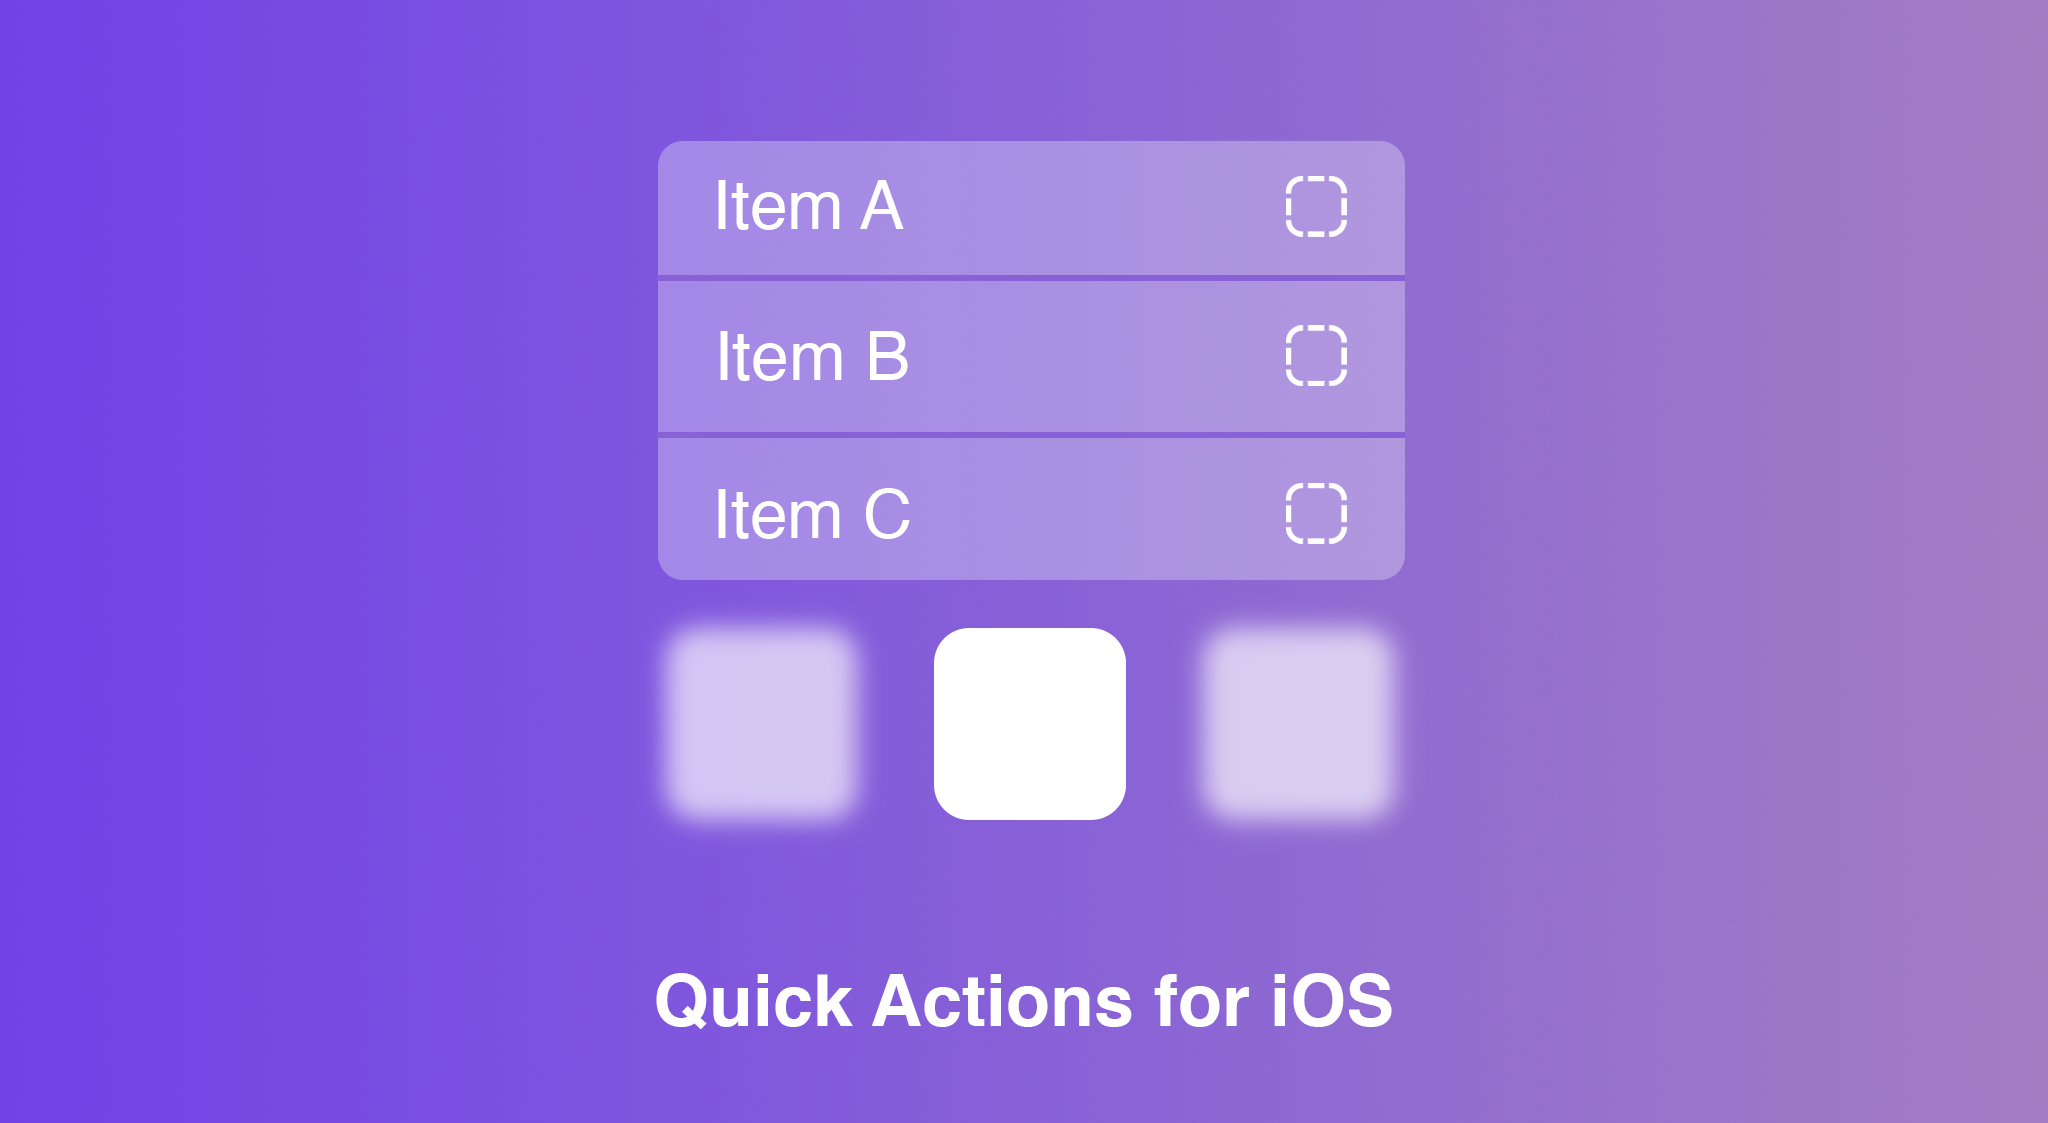
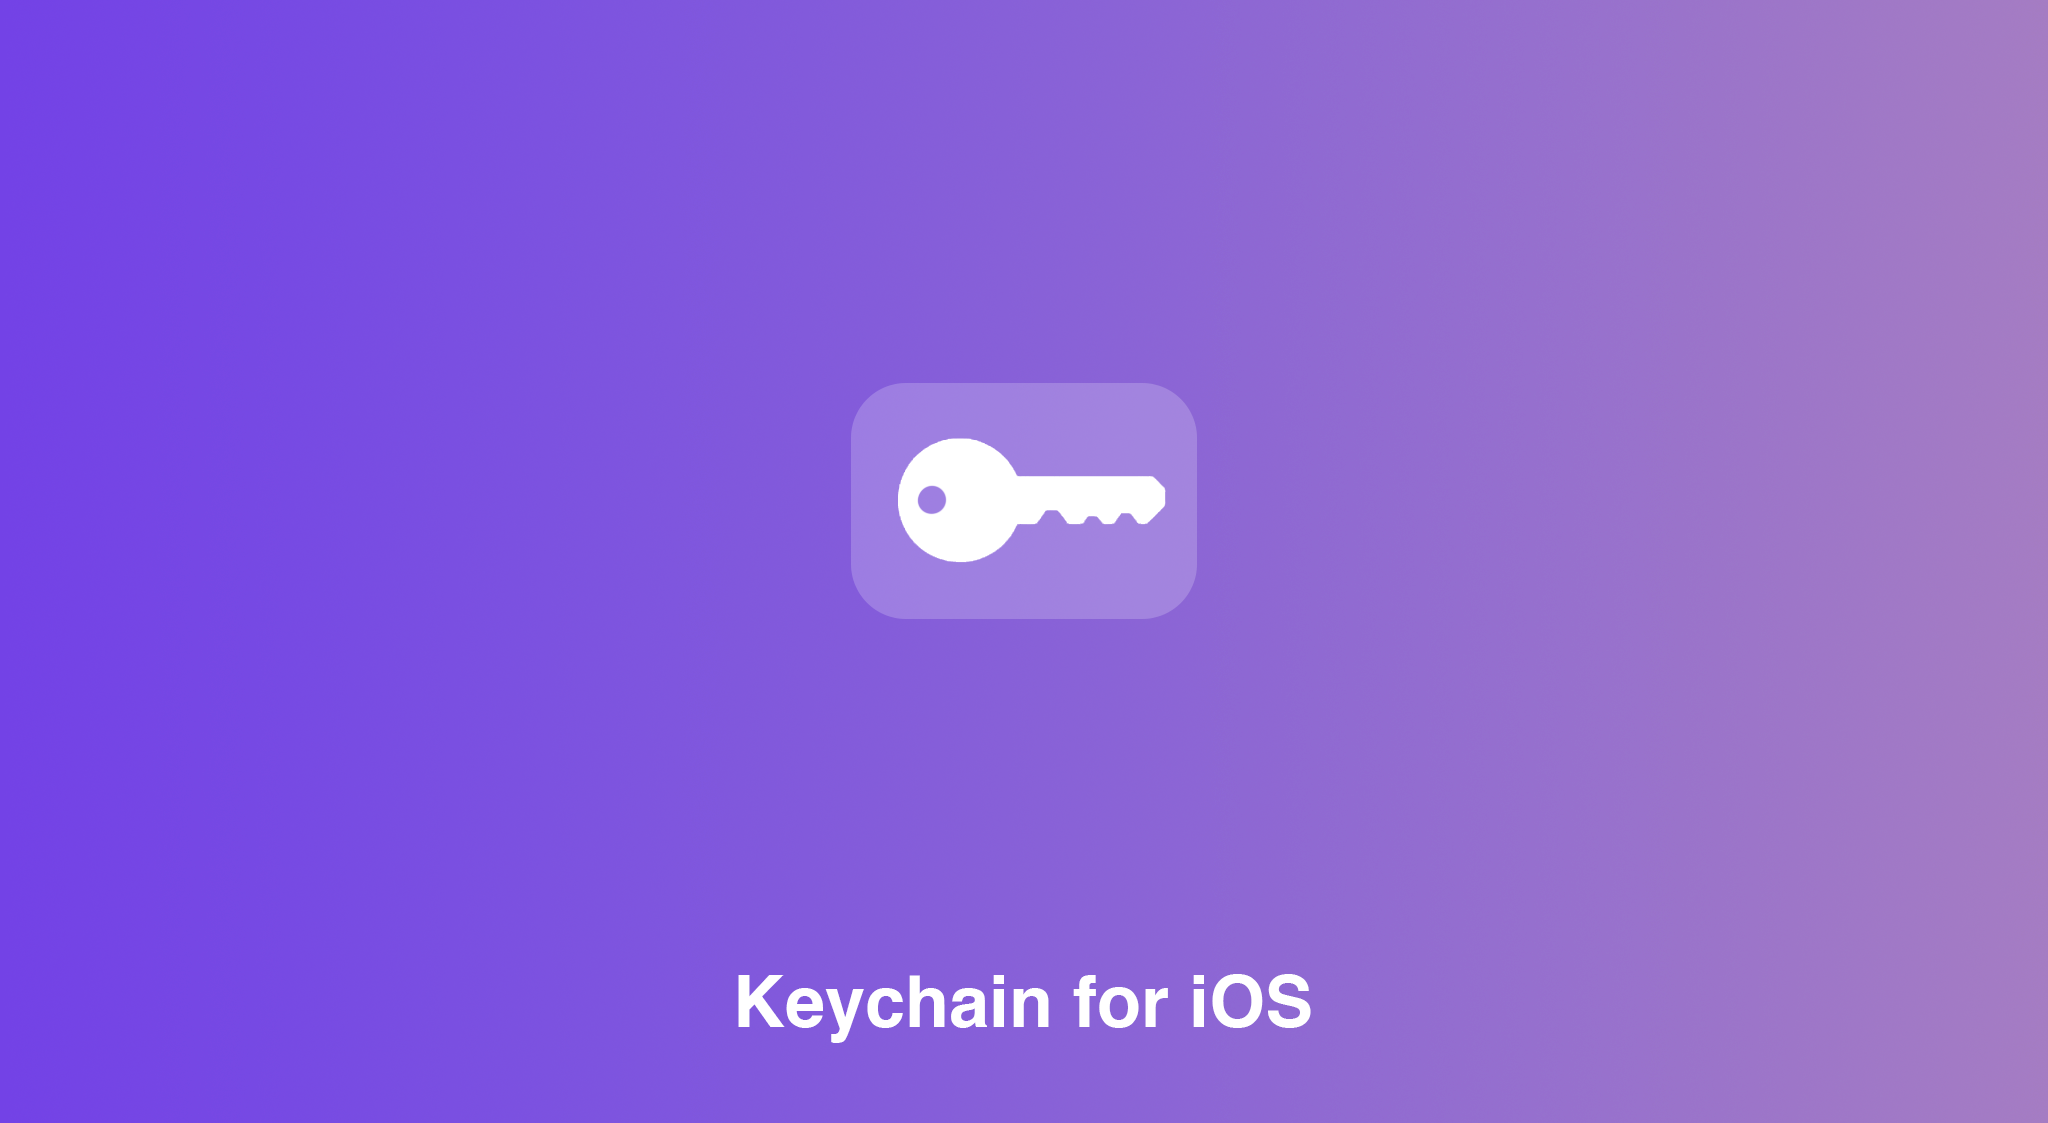
Add files via upload
- add new assets

Changed region(s): [[0.3125, 0.1247, 0.6875, 0.748], [0.3125, 0.8415, 0.6875, 0.935]]

diff --git a/index.html b/index.html
@@ -98,11 +98,11 @@
                 </a>
             </div>
         </div>
-        <div class="portfolio-box" data-link="https://assetstore.unity.com/packages/tools/integration/quick-actions-for-ios-278177">
+        <div class="portfolio-box" data-link="https://assetstore.unity.com/packages/tools/integration/keychain-for-ios-311190">
             <img src="asset-2.png" alt="" class="portfolio-img">
             <!-- Overlay -->
             <div class="portfolio-overlay">
-                <h2>Quick Actions for iOS</h2>
+                <h2>Keychain for iOS</h2>
                 <a href="#">
                     <i class='bx bx-link-alt'></i>
                 </a>
@@ -153,6 +153,36 @@
             <!-- Overlay -->
             <div class="portfolio-overlay">
                 <h2>Share for Ios</h2>
+                <a href="#">
+                    <i class='bx bx-link-alt'></i>
+                </a>
+            </div>
+        </div>
+        <div class="portfolio-box" data-link="https://assetstore.unity.com/packages/tools/integration/quick-actions-for-ios-278177">
+            <img src="asset-8.png" alt="" class="portfolio-img">
+            <!-- Overlay -->
+            <div class="portfolio-overlay">
+                <h2>Quick Actions for iOS</h2>
+                <a href="#">
+                    <i class='bx bx-link-alt'></i>
+                </a>
+            </div>
+        </div>
+                <div class="portfolio-box" data-link="https://assetstore.unity.com/packages/tools/integration/quick-actions-for-android-311913">
+            <img src="asset-9.png" alt="" class="portfolio-img">
+            <!-- Overlay -->
+            <div class="portfolio-overlay">
+                <h2>Quick Actions for Android</h2>
+                <a href="#">
+                    <i class='bx bx-link-alt'></i>
+                </a>
+            </div>
+        </div>
+                <div class="portfolio-box" data-link="https://assetstore.unity.com/packages/tools/integration/quick-actions-for-ios-and-android-311869">
+            <img src="asset-10.png" alt="" class="portfolio-img">
+            <!-- Overlay -->
+            <div class="portfolio-overlay">
+                <h2>Quick Actions for iOS and Android</h2>
                 <a href="#">
                     <i class='bx bx-link-alt'></i>
                 </a>
